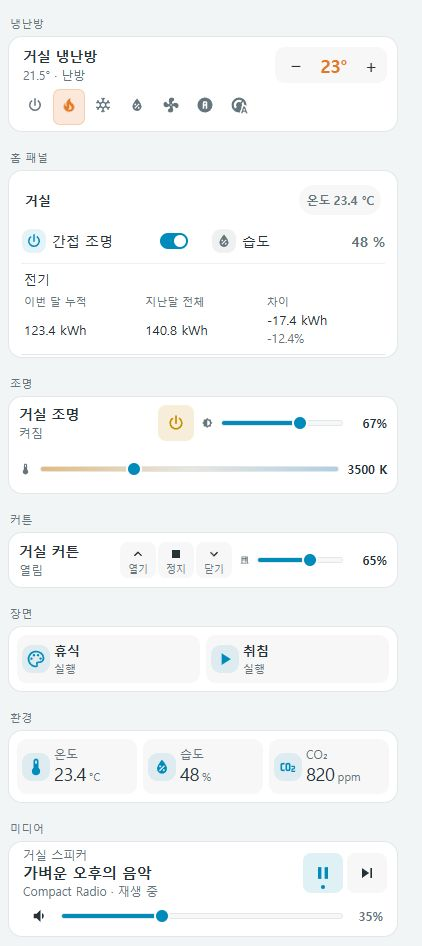
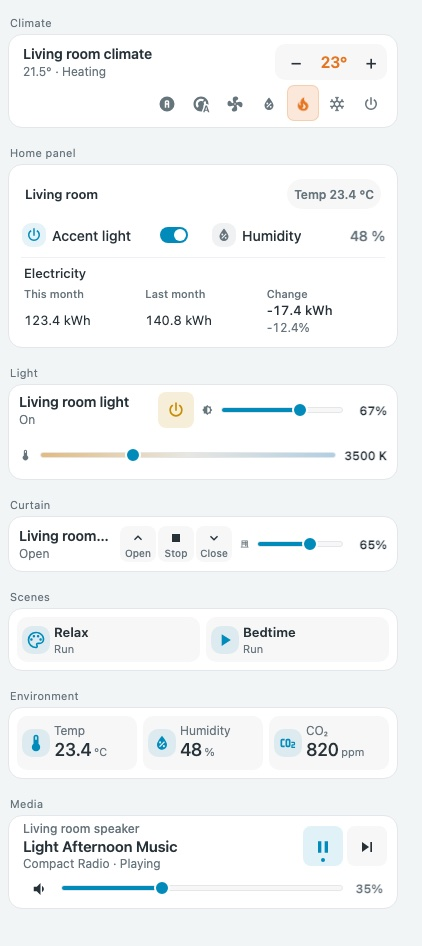
docs: use English images by default and keep Korean as -ko
README and the English guide sections showed Korean screenshots. Images
without a suffix are now English, *-ko.jpg are the Korean originals, and
the preview pages render English unless lang=ko is passed.

diff --git a/examples/preview.html b/examples/preview.html
@@ -8,13 +8,14 @@ body.capture{margin:8px}body.capture>h1,body.capture>p,body.capture>nav{display:
 </style>
 <h1>Compact Cards</h1><p>모의 상태를 사용한 브라우저 미리보기 · 실제 기기에 명령을 보내지 않습니다.</p>
 <nav><select aria-label="미리보기 너비"><option value="320">320px</option><option value="390" selected>390px</option><option value="760">760px</option></select><button id="theme">테마 변경</button><button id="offline">연결 상태 변경</button></nav><main></main><p id="feedback" role="status"></p>
-<script src="preview-icons.js"></script><script>
+<script src="preview-icons.js"></script><script src="preview-locale.js"></script><script>
 // Minimal local HA visual primitives; actual HA provides its own components and icons.
 customElements.define('ha-card',class extends HTMLElement{constructor(){super();this.attachShadow({mode:'open'}).innerHTML='<style>:host{display:block;background:var(--card-background-color);border:1px solid var(--divider-color);border-radius:12px;color:var(--primary-text-color)}</style><slot></slot>';}});
 customElements.define('ha-icon',class extends HTMLElement{connectedCallback(){this.attachShadow({mode:'open'});this.update();new MutationObserver(()=>this.update()).observe(this,{attributes:true,attributeFilter:['icon']});}update(){const paths={'power':'M12 2v10 M5 5a9 9 0 1 0 14 0','chevron-up':'m6 15 6-6 6 6','chevron-down':'m6 9 6 6 6-6','stop':'M6 6h12v12H6z','play':'m8 5 11 7-11 7z','pause':'M8 5v14M16 5v14','skip-next':'m5 5 10 7-10 7zM18 5v14','thermometer':'M9 14V5a3 3 0 0 1 6 0v9a5 5 0 1 1-6 0','snowflake':'M12 2v20M3 7l18 10M3 17 21 7','fire':'M12 2C9 10 4 9 5 15a7 7 0 0 0 14-1c0-4-4-7-4-7s1 5-3 5z','water-percent':'M12 3C8 9 5 12 5 16a7 7 0 0 0 14 0c0-4-3-7-7-13z','fan':'M12 12c-9-1-7-12-1-9 3 2 2 5 1 9 5-8 13-1 8 3-3 2-6 0-8-3 3 9-8 12-9 6 0-4 5-5 9-6','brightness-6':'M12 3v2m0 14v2M3 12h2m14 0h2M6 6l1 1m10 10 1 1M6 18l1-1M17 7l1-1 M17 12a5 5 0 1 0-10 0 5 5 0 0 0 10 0'};const key=(this.getAttribute('icon')||'').replace('mdi:','');if(window.compactPreviewIcons?.[key]){this.shadowRoot.innerHTML=`<style>:host{display:inline-flex;align-items:center;justify-content:center}</style><svg viewBox="0 0 24 24" width="100%" height="100%" fill="currentColor"><path d="${window.compactPreviewIcons[key]}"/></svg>`;return;}this.shadowRoot.innerHTML=`<style>:host{display:inline-flex;align-items:center;justify-content:center}</style><svg viewBox="0 0 24 24" width="100%" height="100%" fill="none" stroke="currentColor" stroke-width="1.8" stroke-linecap="round" stroke-linejoin="round"><path d="${paths[key]||'M5 6h14v12H5zM8 9h8M8 12h8M8 15h5'}"/></svg>`;}});
 </script><script src="../compact-cards.js"></script><script>
 const state=(entity_id,state,attributes)=>({entity_id,state,attributes});
-const initial={
+const {translate}=compactPreviewLocale;
+const initial=translate({
 'climate.room':state('climate.room','heat',{friendly_name:'거실 냉난방',temperature:23,current_temperature:21.5,min_temp:16,max_temp:30,target_temp_step:.5,supported_features:1,hvac_modes:['off','heat','cool','dry','fan_only','auto','heat_cool'],hvac_action:'heating'}),
 'light.room':state('light.room','on',{friendly_name:'거실 조명',brightness:170,supported_color_modes:['color_temp'],min_color_temp_kelvin:2200,max_color_temp_kelvin:6500,color_temp_kelvin:3500}),
 'cover.room':state('cover.room','open',{friendly_name:'거실 커튼',supported_features:15,current_position:65}),
@@ -24,14 +25,17 @@ const initial={
 'sensor.co2':state('sensor.co2','820',{friendly_name:'CO₂',device_class:'carbon_dioxide',unit_of_measurement:'ppm'}),
 'sensor.now':state('sensor.now','123.4',{unit_of_measurement:'kWh'}),'sensor.previous':state('sensor.previous','140.8',{unit_of_measurement:'kWh'}),
 'scene.relax':state('scene.relax','unknown',{friendly_name:'휴식'}),'script.night':state('script.night','off',{friendly_name:'취침'}),
-'media_player.room':state('media_player.room','playing',{friendly_name:'거실 스피커',media_title:'가벼운 오후의 음악',media_artist:'Compact Radio',supported_features:1|2|4|8|16|32|128|512|16384,volume_level:.35})};
+'media_player.room':state('media_player.room','playing',{friendly_name:'거실 스피커',media_title:'가벼운 오후의 음악',media_artist:'Compact Radio',supported_features:1|2|4|8|16|32|128|512|16384,volume_level:.35})});
 const scenario=new URLSearchParams(location.search).get('scenario');
+const requestedWidth=new URLSearchParams(location.search).get('width');
+if(['320','390','760'].includes(requestedWidth)){document.querySelector('main').style.width=requestedWidth+'px';document.querySelector('select').value=requestedWidth;}
 if(scenario==='long'){initial['sensor.co2'].state='12345.6789';initial['sensor.temperature'].state='23.456';}
 if(scenario==='muted'||scenario==='mute-only')initial['media_player.room'].attributes.is_volume_muted=true;
 if(scenario==='mute-only')initial['media_player.room'].attributes.supported_features=1|8|32|16384;
 const motionTimers=new Map();
-const hass={states:structuredClone(initial),formatEntityState:s=>`${({heat:'난방',on:'켜짐',off:'꺼짐',open:'열림',closed:'닫힘',playing:'재생 중',paused:'일시정지'}[s.state]||s.state)} ${s.attributes.unit_of_measurement||''}`.trim(),callService:async(domain,service,data)=>{document.querySelector('#feedback').textContent='처리 중…';await new Promise(r=>setTimeout(r,450));const id=data.entity_id,s=hass.states[id];if(s){if(service==='toggle')s.state=s.state==='on'?'off':'on';if(service==='set_temperature')s.attributes.temperature=data.temperature;if(service==='set_hvac_mode'){s.state=data.hvac_mode;s.attributes.hvac_action=({off:'off',fan_only:'fan',heat:'heating',cool:'cooling',dry:'drying'}[data.hvac_mode]||'idle');}if(service==='turn_on'){s.state='on';if(data.brightness_pct!=null)s.attributes.brightness=data.brightness_pct*255/100;if(data.color_temp_kelvin)s.attributes.color_temp_kelvin=data.color_temp_kelvin;}if(service==='turn_off')s.state='off';if(service==='set_cover_position')s.attributes.current_position=data.position;if(['open_cover','close_cover'].includes(service)){clearTimeout(motionTimers.get(id));s.state=service==='open_cover'?'opening':'closing';motionTimers.set(id,setTimeout(()=>{s.state=service==='open_cover'?'open':'closed';s.attributes.current_position=service==='open_cover'?100:0;refresh();},900));}if(service==='stop_cover'){clearTimeout(motionTimers.get(id));s.state=s.attributes.current_position===0?'closed':'open';}if(service==='media_pause')s.state='paused';if(service==='media_play')s.state='playing';if(service==='volume_set')s.attributes.volume_level=data.volume_level;if(service==='volume_mute')s.attributes.is_volume_muted=data.is_volume_muted;}document.querySelector('#feedback').textContent=`${domain}.${service} 완료`;refresh();}};
-const configs=[['compact-climate-row','냉난방',{entity:'climate.room'}],['compact-home-panel','홈 패널',{items:[{type:'heading',name:'거실',badges:[{entity:'sensor.temperature',name:'온도'}]},{entity:'switch.room',tap_action:{action:'toggle'}},{entity:'sensor.humidity',tap_action:{action:'more-info'}},{type:'comparison',rows:[{name:'전기',entity:'sensor.now',previous:'sensor.previous'}]}]}],['compact-light-row','조명',{entity:'light.room'}],['compact-cover-row','커튼',{entity:'cover.room'}],['compact-scene-panel','장면',{items:[{entity:'scene.relax',name:'휴식'},{entity:'script.night',name:'취침'}]}],['compact-environment-panel','환경',{items:[{entity:'sensor.temperature',name:'온도'},{entity:'sensor.humidity',name:'습도'},{entity:'sensor.co2',name:'CO₂'}]}],['compact-media-row','미디어',{entity:'media_player.room'}]];
+const hass={states:structuredClone(initial),formatEntityState:s=>`${translate({heat:'난방',on:'켜짐',off:'꺼짐',open:'열림',closed:'닫힘',playing:'재생 중',paused:'일시정지'}[s.state]||s.state)} ${s.attributes.unit_of_measurement||''}`.trim(),callService:async(domain,service,data)=>{document.querySelector('#feedback').textContent='처리 중…';await new Promise(r=>setTimeout(r,450));const id=data.entity_id,s=hass.states[id];if(s){if(service==='toggle')s.state=s.state==='on'?'off':'on';if(service==='set_temperature')s.attributes.temperature=data.temperature;if(service==='set_hvac_mode'){s.state=data.hvac_mode;s.attributes.hvac_action=({off:'off',fan_only:'fan',heat:'heating',cool:'cooling',dry:'drying'}[data.hvac_mode]||'idle');}if(service==='turn_on'){s.state='on';if(data.brightness_pct!=null)s.attributes.brightness=data.brightness_pct*255/100;if(data.color_temp_kelvin)s.attributes.color_temp_kelvin=data.color_temp_kelvin;}if(service==='turn_off')s.state='off';if(service==='set_cover_position')s.attributes.current_position=data.position;if(['open_cover','close_cover'].includes(service)){clearTimeout(motionTimers.get(id));s.state=service==='open_cover'?'opening':'closing';motionTimers.set(id,setTimeout(()=>{s.state=service==='open_cover'?'open':'closed';s.attributes.current_position=service==='open_cover'?100:0;refresh();},900));}if(service==='stop_cover'){clearTimeout(motionTimers.get(id));s.state=s.attributes.current_position===0?'closed':'open';}if(service==='media_pause')s.state='paused';if(service==='media_play')s.state='playing';if(service==='volume_set')s.attributes.volume_level=data.volume_level;if(service==='volume_mute')s.attributes.is_volume_muted=data.is_volume_muted;}document.querySelector('#feedback').textContent=`${domain}.${service} 완료`;refresh();}};
+const configs=translate([['compact-climate-row','냉난방',{entity:'climate.room'}],['compact-home-panel','홈 패널',{items:[{type:'heading',name:'거실',badges:[{entity:'sensor.temperature',name:'온도'}]},{entity:'switch.room',tap_action:{action:'toggle'}},{entity:'sensor.humidity',tap_action:{action:'more-info'}},{type:'comparison',rows:[{name:'전기',entity:'sensor.now',previous:'sensor.previous'}]}]}],['compact-light-row','조명',{entity:'light.room'}],['compact-cover-row','커튼',{entity:'cover.room'}],['compact-scene-panel','장면',{items:[{entity:'scene.relax',name:'휴식'},{entity:'script.night',name:'취침'}]}],['compact-environment-panel','환경',{items:[{entity:'sensor.temperature',name:'온도'},{entity:'sensor.humidity',name:'습도'},{entity:'sensor.co2',name:'CO₂'}]}],['compact-media-row','미디어',{entity:'media_player.room'}]]);
+compactPreviewLocale.start();
 if(new URLSearchParams(location.search).get('capture')==='true')document.body.classList.add('capture');
 const selected=new URLSearchParams(location.search).get('card');
 for(const [type,label,config]of configs){if(selected&&type!==selected)continue;if(!customElements.get(type))continue;const section=document.createElement('section'),title=document.createElement('small'),card=document.createElement(type);title.textContent=label;try{card.setConfig(config);card.hass=hass;section.append(title,card);document.querySelector('main').append(section);

diff --git a/examples/showcase.html b/examples/showcase.html
@@ -11,6 +11,9 @@
 <script>
 const showcaseParams=new URLSearchParams(location.search);
 document.documentElement.dataset.theme=showcaseParams.get('theme')==='dark'?'dark':'light';
+// English by default; ?lang=ko keeps the Korean sample text. Korean sample text is swapped for English; card-owned labels are swapped in the DOM after each render.
+const english=showcaseParams.get('lang')!=='ko';
+if(english)document.documentElement.lang='en';
 </script>
 </head>
 <body>
@@ -75,11 +78,35 @@ const rooms=[
   {type:'custom:compact-home-panel',columns:2,items:[{type:'heading',name:'조명·전원'},{entity:'light.kitchen',name:'주방'},{entity:'switch.entryway',name:'현관'},{entity:'switch.desk',name:'책상'},{entity:'switch.balcony',name:'베란다'},{type:'heading',name:'전기 사용량'},{type:'comparison',rows:[{name:'전기',entity:'sensor.electricity_this_month',previous:'sensor.electricity_last_month'}]}]},
  ]},
 ];
+const dictionary={'우리집':'My Home','우리집 · 거실과 침실, 자주 쓰는 조작을 한곳에':'My Home · Living room and bedroom, everyday controls in one place','테마 변경':'Toggle theme','모의 Home Assistant 대시보드':'Mock Home Assistant dashboard','실제 Compact Cards로 구성한 모의 대시보드입니다. 표시된 값과 동작은 예시이며 실제 기기에 연결하지 않습니다.':'A mock dashboard built with the real Compact Cards. Values and actions are examples and no real device is connected.',
+'냉난방':'Climate','거실 조명':'Living room light','침실 조명':'Bedroom light','주방 조명':'Kitchen light','현관 조명':'Entryway light','책상 조명':'Desk light','베란다 조명':'Balcony light','침실 커튼':'Bedroom curtain','거실 온도':'Living room temperature','거실 습도':'Living room humidity','거실 CO₂':'Living room CO₂','침실 온도':'Bedroom temperature','침실 습도':'Bedroom humidity','이번 달 전기':'Electricity this month','지난달 전기':'Electricity last month','편안한 저녁':'Cozy evening','독서':'Reading','외출':'Away','취침':'Bedtime','거실 스피커':'Living room speaker','조용한 저녁의 피아노':'Quiet Evening Piano','창가에 흐르는 재즈':'Jazz by the Window',
+'거실':'Living room','침실':'Bedroom','집 전체':'Whole home','온도':'Temp','습도':'Humidity','주방':'Kitchen','현관':'Entryway','책상':'Desk','베란다':'Balcony','조명·전원':'Lights & power','전기 사용량':'Electricity usage','전기':'Electricity',
+'실행':'Run','열기':'Open','정지':'Stop','닫기':'Close','이번 달 누적':'This month','지난달 전체':'Last month','차이':'Change','항목':'Item','재생 중':'Playing','난방':'Heating','냉방':'Cooling','송풍':'Fan','끄기':'Off','켜짐':'On','꺼짐':'Off','열림':'Open','닫힘':'Closed','일시정지':'Paused','대기':'Idle','확인 불가':'Unavailable'};
+const translate=value=>{
+ if(!english)return value;
+ if(typeof value==='string')return dictionary[value]??value;
+ if(Array.isArray(value))return value.map(translate);
+ if(value&&typeof value==='object')return Object.fromEntries(Object.entries(value).map(([key,item])=>[key,translate(item)]));
+ return value;
+};
+const localeTerms=Object.entries(dictionary).sort((a,b)=>b[0].length-a[0].length);
+function localize(root){
+ if(!english)return;
+ const walker=document.createTreeWalker(root,NodeFilter.SHOW_TEXT);
+ for(let node=walker.nextNode();node;node=walker.nextNode()){
+  let text=node.nodeValue;for(const [ko,en] of localeTerms)text=text.split(ko).join(en);
+  if(text!==node.nodeValue)node.nodeValue=text;
+ }
+ for(const element of root.querySelectorAll('*')){
+  const label=element.dataset?.label;if(label&&dictionary[label])element.dataset.label=dictionary[label];
+  if(element.shadowRoot)localize(element.shadowRoot);
+ }
+}
 const cards=[],timers=new Map();let toastTimer;
 function announce(message){clearTimeout(toastTimer);document.querySelector('#feedback').textContent=message;toastTimer=setTimeout(()=>document.querySelector('#feedback').textContent='',2200);}
-function refresh(){for(const card of cards)card.hass={...hass};}
-const hass={states:structuredClone(initial),config:{unit_system:{temperature:'°C'}},formatEntityState:state=>{
- const labels={heat:'난방',cool:'냉방',fan_only:'송풍',on:'켜짐',off:'꺼짐',open:'열림',closed:'닫힘',opening:'여는 중',closing:'닫는 중',playing:'재생 중',paused:'일시정지',idle:'대기'};
+function refresh(){for(const card of cards)card.hass={...hass};localize(document.body);}
+const hass={states:structuredClone(translate(initial)),config:{unit_system:{temperature:'°C'}},formatEntityState:state=>{
+ const labels=english?{heat:'Heating',cool:'Cooling',fan_only:'Fan',on:'On',off:'Off',open:'Open',closed:'Closed',opening:'Opening',closing:'Closing',playing:'Playing',paused:'Paused',idle:'Idle'}:{heat:'난방',cool:'냉방',fan_only:'송풍',on:'켜짐',off:'꺼짐',open:'열림',closed:'닫힘',opening:'여는 중',closing:'닫는 중',playing:'재생 중',paused:'일시정지',idle:'대기'};
  return `${labels[state.state]||state.state}${state.attributes.unit_of_measurement?' '+state.attributes.unit_of_measurement:''}`;
 },callService:async(domain,service,data)=>{
  await new Promise(resolve=>setTimeout(resolve,350));const state=hass.states[data.entity_id];if(!state)throw new Error('모의 엔티티를 찾을 수 없습니다.');
@@ -98,12 +125,14 @@ const hass={states:structuredClone(initial),config:{unit_system:{temperature:'°
  if(service==='stop_cover'){clearTimeout(timers.get(state.entity_id));state.state=state.attributes.current_position===0?'closed':'open';}
  if(service==='media_pause')state.state='paused';
  if(service==='media_play')state.state='playing';
- if(service==='media_next_track'){state.attributes.media_title=state.attributes.media_title==='조용한 저녁의 피아노'?'창가에 흐르는 재즈':'조용한 저녁의 피아노';state.attributes.media_artist=state.attributes.media_title==='창가에 흐르는 재즈'?'Window Jazz':'Evening Piano';}
+ if(service==='media_next_track'){const [a,b]=english?['Quiet Evening Piano','Jazz by the Window']:['조용한 저녁의 피아노','창가에 흐르는 재즈'];state.attributes.media_title=state.attributes.media_title===a?b:a;state.attributes.media_artist=state.attributes.media_title===b?'Window Jazz':'Evening Piano';}
  if(service==='volume_set')state.attributes.volume_level=data.volume_level;
  if(service==='volume_mute')state.attributes.is_volume_muted=data.is_volume_muted;
  refresh();
 }};
-for(const room of rooms){const section=document.createElement('section');section.className='room';const heading=document.createElement('h2');heading.className='room-heading';const icon=document.createElement('ha-icon');icon.setAttribute('icon',room.icon);icon.setAttribute('aria-hidden','true');heading.append(icon,document.createTextNode(room.name));const group=document.createElement('div');group.className='cards';section.append(heading,group);document.querySelector('main').append(section);for(const config of room.cards){const card=document.createElement(config.type.replace('custom:',''));card.setConfig(config);card.hass=hass;group.append(card);cards.push(card);}}
+for(const room of translate(rooms)){const section=document.createElement('section');section.className='room';const heading=document.createElement('h2');heading.className='room-heading';const icon=document.createElement('ha-icon');icon.setAttribute('icon',room.icon);icon.setAttribute('aria-hidden','true');heading.append(icon,document.createTextNode(room.name));const group=document.createElement('div');group.className='cards';section.append(heading,group);document.querySelector('main').append(section);for(const config of room.cards){const card=document.createElement(config.type.replace('custom:',''));card.setConfig(config);card.hass=hass;group.append(card);cards.push(card);}}
+localize(document.body);
+if(english){setInterval(()=>localize(document.body),200);for(const [selector,key] of [['.caption','우리집 · 거실과 침실, 자주 쓰는 조작을 한곳에'],['footer','실제 Compact Cards로 구성한 모의 대시보드입니다. 표시된 값과 동작은 예시이며 실제 기기에 연결하지 않습니다.'],['#theme','테마 변경']])document.querySelector(selector).textContent=dictionary[key];document.querySelector('main').setAttribute('aria-label',dictionary['모의 Home Assistant 대시보드']);document.title='Compact Cards · My Home';}
 document.querySelector('#theme').onclick=()=>{document.documentElement.dataset.theme=document.documentElement.dataset.theme==='dark'?'light':'dark';};
 document.addEventListener('hass-more-info',event=>{const state=hass.states[event.detail.entityId];announce(`${state?.attributes.friendly_name||event.detail.entityId} · ${state?hass.formatEntityState(state):'확인 불가'} (모의 정보)`);});
 document.addEventListener('hass-notification',event=>announce(event.detail.message));

diff --git a/examples/preview-locale.js b/examples/preview-locale.js
@@ -1,0 +1,37 @@
+// Preview-only English substitution for the Korean sample text. English by default; add ?lang=ko for the Korean originals.
+// The card bundle itself is Korean-only, so card-rendered labels are swapped in the DOM after rendering.
+(()=>{
+const english=new URLSearchParams(location.search).get('lang')!=='ko';
+const dictionary={
+ '거실 냉난방':'Living room climate','거실 조명':'Living room light','거실 커튼':'Curtain','거실 스피커':'Living room speaker','간접 조명':'Accent light','실내 온도':'Room temperature','습도':'Humidity','온도':'Temp','휴식':'Relax','취침':'Bedtime','가벼운 오후의 음악':'Light Afternoon Music','전기':'Electricity','거실':'Living room','환경':'Environment','냉난방':'Climate','홈 패널':'Home panel','조명':'Light','커튼':'Curtain','장면':'Scenes','미디어':'Media',
+ '보일러':'Boiler','에어컨':'Air conditioner',
+ '모의 상태를 사용한 브라우저 미리보기 · 실제 기기에 명령을 보내지 않습니다.':'Browser preview with mocked states · No commands are sent to real devices.','미리보기 너비':'Preview width','테마 변경':'Toggle theme','연결 상태 변경':'Toggle connection',
+ '처리 중…':'Working…','설정 미리보기 반영 완료':'Config preview updated',
+ '냉난방 너비·높이 확인':'Climate width and height check','냉난방 카드의 너비·높이':'Climate card width and height','같은 실제 카드 구현을 패널과 고정 높이 미리보기 부모 안에서 비교합니다.':'Compares the same real card in a panel and in a fixed-height preview parent.','패널 너비':'Panel width','냉난방 크기 검증용 모의 화면':'Mock view for climate size checks','실제 카드 코드 · 모의 상태 · 실제 기기 제어 없음':'Real card code · Mocked states · No real device control','홈 패널 · 보일러 2모드 / 에어컨 5모드':'Home panel · Boiler 2 modes / AC 5 modes','단독 카드 · 280 × 320px 그리드 부모':'Standalone card · 280 × 320px grid parent',
+ '엔티티':'Entity','표시 설정':'Display','표시 이름':'Display name','열 수':'Columns','기본값':'Default','1열':'1 column','2열':'2 columns','3열':'3 columns','4열':'4 columns','위로':'Up','아래로':'Down','삭제':'Delete','항목 유형':'Item type','이름으로 센서 찾기':'Find sensor by name','제목':'Heading','메모':'Note','사용량 비교':'Usage comparison','페이지 이동':'Navigate','배지':'Badges','센서':'Sensor','배지 추가':'Add badge','아이콘':'Icon','터치 동작':'Tap action','이름 터치 동작':'Name tap action','기본 (상세 정보)':'Default (more info)','상세 정보':'More info','켜기/끄기 전환':'Toggle on/off','켜기/끄기':'Toggle on/off','이름 터치와 별개로 오른쪽 전용 제어를 사용할 수 있습니다. 기존 서비스 설정은 보존되며 전용 제어가 우선합니다.':'A dedicated control on the right can be used separately from the name tap. Existing service settings are preserved and the dedicated control takes priority.','실행 전 확인':'Confirm before running','확인 메시지 사용':'Use confirmation message','서비스 실행 버튼':'Service run button','이름을 누르면 엔티티 상세 정보를 엽니다.':'Tapping the name opens the entity details.','비교 항목':'Comparison row','항목 이름':'Item name','이번 달 센서':'This month sensor','지난달 센서':'Last month sensor','비교 항목 추가':'Add comparison row','항목 추가':'Add item','패널 이름':'Panel name','임계값':'Threshold','임계값 추가':'Add threshold','음량 표시':'Show volume','다음 곡 표시':'Show next track','항목':'Item',
+ '음소거':'Muted','기준값':'Value','비교 방향':'Direction','강조 수준':'Emphasis','이상':'or above','이하':'or below','주의':'Warning','위험':'Critical','실내 환경':'Room environment',
+ '실행':'Run','열기':'Open','정지':'Stop','닫기':'Close','이번 달 누적':'This month','지난달 전체':'Last month','차이':'Change','항목':'Item','재생 중':'Playing','난방':'Heating','냉방':'Cooling','송풍':'Fan','제습':'Dry','자동':'Auto','끄기':'Off','켜짐':'On','꺼짐':'Off','열림':'Open','닫힘':'Closed','일시정지':'Paused','대기':'Idle','확인 불가':'Unavailable'
+};
+const terms=Object.entries(dictionary).sort((a,b)=>b[0].length-a[0].length);
+const translate=value=>{
+ if(!english)return value;
+ if(typeof value==='string')return dictionary[value]??value;
+ if(Array.isArray(value))return value.map(translate);
+ if(value&&typeof value==='object')return Object.fromEntries(Object.entries(value).map(([key,item])=>[key,translate(item)]));
+ return value;
+};
+function localize(root=document.body){
+ const walker=document.createTreeWalker(root,NodeFilter.SHOW_TEXT);
+ for(let node=walker.nextNode();node;node=walker.nextNode()){
+  let text=node.nodeValue;for(const [ko,en] of terms)text=text.split(ko).join(en);
+  if(text!==node.nodeValue)node.nodeValue=text;
+ }
+ for(const element of root.querySelectorAll('*')){
+  for(const name of ['data-label','aria-label','placeholder','title']){const value=element.getAttribute(name);if(value){let text=value;for(const [ko,en] of terms)text=text.split(ko).join(en);if(text!==value)element.setAttribute(name,text);}}
+  if(element.shadowRoot)localize(element.shadowRoot);
+ }
+}
+const start=()=>{if(!english)return;document.documentElement.lang='en';document.title=translate(document.title);localize();setInterval(localize,200);};
+window.compactPreviewLocale={english,translate,localize,start,dictionary};
+if(english&&new URLSearchParams(location.search).get('debug')==='ko')setTimeout(()=>{const found=new Set();const scan=root=>{const w=document.createTreeWalker(root,NodeFilter.SHOW_TEXT);for(let n=w.nextNode();n;n=w.nextNode())if(/[가-힣]/.test(n.nodeValue)&&!['SCRIPT','STYLE','TITLE'].includes(n.parentNode.nodeName))found.add(n.nodeValue.trim());for(const e of root.querySelectorAll('*'))if(e.shadowRoot)scan(e.shadowRoot);};scan(document.body);document.title='KO:'+[...found].join('|');},2500);
+})();

diff --git a/examples/climate-fit.html b/examples/climate-fit.html
@@ -20,6 +20,7 @@ document.documentElement.dataset.theme=fitParams.get('theme')==='dark'?'dark':'l
 <footer>실제 카드 코드 · 모의 상태 · 실제 기기 제어 없음</footer>
 <p id="feedback" role="status" aria-live="polite"></p>
 <script src="preview-icons.js"></script>
+<script src="preview-locale.js"></script>
 <script>
 // Only HA's visual primitives are substituted; card content/layout comes from compact-cards.js.
 customElements.define('ha-card',class extends HTMLElement{constructor(){super();this.attachShadow({mode:'open'}).innerHTML='<style>:host{display:block;background:var(--card-background-color);border:1px solid var(--divider-color);border-radius:var(--ha-card-border-radius,14px);color:var(--primary-text-color)}</style><slot></slot>';}});
@@ -35,12 +36,13 @@ document.documentElement.style.setProperty('--panel-width',panelWidth+'px');docu
 </script>
 <script src="../compact-cards.js"></script>
 <script>
-const fitStates={
+const {translate:fitTranslate}=compactPreviewLocale;
+const fitStates=fitTranslate({
  'climate.demo_boiler':{entity_id:'climate.demo_boiler',state:'heat',attributes:{friendly_name:'보일러',temperature:25,current_temperature:25,min_temp:16,max_temp:30,target_temp_step:1,supported_features:1,hvac_modes:['off','heat'],hvac_action:'idle'}},
  'climate.demo_ac':{entity_id:'climate.demo_ac',state:'cool',attributes:{friendly_name:'에어컨',temperature:24,current_temperature:27.5,min_temp:16,max_temp:30,target_temp_step:1,supported_features:1,hvac_modes:['off','cool','fan_only','dry','auto'],hvac_action:'cooling'}},
-};
+});
 const fitCards=[];
-const fitHass={states:fitStates,config:{unit_system:{temperature:'°C'}},formatEntityState:state=>({off:'꺼짐',heat:'난방',cool:'냉방',fan_only:'송풍',dry:'제습',auto:'자동'}[state.state]||state.state),callService:async(domain,service,data)=>{
+const fitHass={states:fitStates,config:{unit_system:{temperature:'°C'}},formatEntityState:state=>fitTranslate({off:'꺼짐',heat:'난방',cool:'냉방',fan_only:'송풍',dry:'제습',auto:'자동'}[state.state]||state.state),callService:async(domain,service,data)=>{
  if(domain!=='climate')throw new Error('모의 냉난방 서비스만 지원합니다.');
  await new Promise(resolve=>setTimeout(resolve,250));const state=fitStates[data.entity_id];if(!state)throw new Error('모의 엔티티를 찾을 수 없습니다.');
  if(service==='set_temperature')state.attributes.temperature=data.temperature;
@@ -49,9 +51,10 @@ const fitHass={states:fitStates,config:{unit_system:{temperature:'°C'}},formatE
 }};
 function addFitTarget(kind,title,config){const section=document.createElement('section');section.className=`fixture ${kind}-fixture`;section.dataset.target=kind;const heading=document.createElement('h2');heading.className='fixture-title';heading.textContent=title;section.append(heading);const card=document.createElement(config.type.replace('custom:',''));card.id=kind==='panel'?'panel-card':'picker-card';card.setConfig(config);card.hass=fitHass;if(kind==='picker'){const slot=document.createElement('div');slot.className='picker-slot';slot.id='picker-slot';slot.append(card);section.append(slot);}else section.append(card);document.querySelector('main').append(section);fitCards.push(card);}
 const target=fitParams.get('target');
-if(!target||target==='panel')addFitTarget('panel','홈 패널 · 보일러 2모드 / 에어컨 5모드',{type:'custom:compact-home-panel',items:[{type:'climate',entity:'climate.demo_boiler',name:'보일러'},{type:'climate',entity:'climate.demo_ac',name:'에어컨'}]});
-if(!target||target==='picker')addFitTarget('picker','단독 카드 · 280 × 320px 그리드 부모',{type:'custom:compact-climate-row',entity:'climate.demo_ac',name:'에어컨'});
+if(!target||target==='panel')addFitTarget('panel',fitTranslate('홈 패널 · 보일러 2모드 / 에어컨 5모드'),{type:'custom:compact-home-panel',items:[{type:'climate',entity:'climate.demo_boiler',name:fitTranslate('보일러')},{type:'climate',entity:'climate.demo_ac',name:fitTranslate('에어컨')}]});
+if(!target||target==='picker')addFitTarget('picker',fitTranslate('단독 카드 · 280 × 320px 그리드 부모'),{type:'custom:compact-climate-row',entity:'climate.demo_ac',name:fitTranslate('에어컨')});
 if(target&&!['panel','picker'].includes(target))document.querySelector('#feedback').textContent='target은 panel 또는 picker로 지정하세요.';
+compactPreviewLocale.start();
 document.querySelector('#width').onchange=event=>document.documentElement.style.setProperty('--panel-width',event.target.value+'px');
 document.querySelector('#theme').onclick=()=>document.documentElement.dataset.theme=document.documentElement.dataset.theme==='dark'?'light':'dark';
 document.addEventListener('hass-more-info',event=>{const state=fitStates[event.detail.entityId];document.querySelector('#feedback').textContent=`${state.attributes.friendly_name} · ${fitHass.formatEntityState(state)} · 설정 ${state.attributes.temperature}°C (모의 정보)`;});

diff --git a/docs/ux-refinements.md b/docs/ux-refinements.md
@@ -4,7 +4,7 @@
 
 ## 냉난방: 아이콘 중심 구성 유지
 
-![냉난방](../images/compact-climate-row.jpg)
+![냉난방](../images/compact-climate-row-ko.jpg)
 
 모드 7개에 모두 글자를 붙이면 작은 카드에서 시각적 잡음이 늘어납니다. 현재 모드는 이름 아래 상태 텍스트와 선택 강조로 이미 표시되므로 기존 아이콘 구성을 유지했습니다. 각 버튼의 툴팁과 접근성 이름도 유지합니다. 냉난방은 이번 변경으로 버튼 수·행 수·카드 높이가 증가하지 않습니다.
 
@@ -15,9 +15,9 @@
 - **홈 패널:** 비교 숫자 옆에 `이번 달 누적 / 지난달 전체`를 표시합니다. 반복 설명 행을 없애 더 작게 구성합니다. 두 기간의 차이를 같은 기간 대비 절감으로 해석하지 않아야 합니다.
 - **환경:** 숫자는 중간에서 나누지 않고 단위를 더 작게 표시합니다. 지역화된 숫자 구분 문자를 보존하며 자동 배치는 실제 값의 너비에 맞춰 열 수를 조절합니다. 강제로 지정한 열 수는 유지하므로 긴 값에는 `columns: auto`를 권장합니다.
 
-![조명 색온도와 직접 제어](../images/compact-light-row.jpg)
+![조명 색온도와 직접 제어](../images/compact-light-row-ko.jpg)
 
-![커튼의 작은 조작 레이블](../images/compact-cover-row.jpg)
+![커튼의 작은 조작 레이블](../images/compact-cover-row-ko.jpg)
 
 ## 조작 흐름 유지
 
@@ -25,15 +25,15 @@
 - **장면:** 여러 항목을 연속 실행해도 항목별 전달 성공·실패를 잠시 유지합니다. 성공은 요청 전달을 뜻하며 실제 장치 동작 완료를 의미하지 않습니다.
 - **슬라이더:** 요청 중 포커스를 유지하고 중복 입력만 막습니다. Tab으로 다른 조작부로 이동할 수 있으며 요청이 끝나도 사용자가 이동한 포커스를 되돌리지 않습니다. 연결 불가 상태는 실제 비활성화를 적용합니다.
 
-![음소거 상태와 직접 해제](../images/compact-media-muted.jpg)
+![음소거 상태와 직접 해제](../images/compact-media-muted-ko.jpg)
 
-![320px 긴 숫자 배치](../images/compact-environment-long.jpg)
+![320px 긴 숫자 배치](../images/compact-environment-long-ko.jpg)
 
 ## 설정 과정의 불필요한 동작 줄이기
 
 항목을 재정렬해도 펼친 중첩 설정과 키보드 포커스가 해당 항목을 따라갑니다. 조명·스위치·select에는 적용되지 않는 실행 버튼 설정을 숨기고 기존 YAML 값은 보존합니다. 임계값은 `31°C 이상 · 주의`처럼 읽히는 요약으로 표시합니다. 선택적인 이름·아이콘은 `표시 설정` 안에 두고 임계값 입력은 너비에 맞춰 나란히 배치합니다.
 
-![개선한 시각 편집기](../images/visual-editor.jpg)
+![개선한 시각 편집기](../images/visual-editor-ko.jpg)
 
 ## 검증 범위
 

diff --git a/docs/compact-climate-row.md b/docs/compact-climate-row.md
@@ -2,7 +2,7 @@
 
 [UI에서 구성하기](visual-editor.md) · 아래 YAML 예제도 동일하게 사용할 수 있습니다.
 
-![냉난방 카드 대표 화면](../images/compact-climate-row.jpg)
+![냉난방 카드 대표 화면](../images/compact-climate-row-ko.jpg)
 
 운전 모드와 설정 온도를 바로 조작하는 냉난방 카드입니다. 이름 아래에 현재 상태와 현재 온도를 표시하고, 지원 모드만 버튼으로 제공합니다. 이미지는 모의 상태를 사용하는 로컬 미리보기입니다. 기기의 지원 모드·속성과 카드 너비에 따라 실제 화면은 달라집니다.
 
@@ -50,7 +50,7 @@ name: 거실 냉난방
 
 ## 좁은 카드와 터치 환경
 
-![390px 패널에서 한 줄로 배치한 보일러와 에어컨](../images/compact-climate-inline.jpg)
+![390px 패널에서 한 줄로 배치한 보일러와 에어컨](../images/compact-climate-inline-ko.jpg)
 
 위 예시는 실제 카드 코드와 모의 상태를 사용하는 390px 홈 패널입니다. 보일러의 두 모드와 에어컨의 다섯 모드가 각각 한 줄로 배치됩니다. 현재 온도를 보조 텍스트 앞에 표시해 좁은 이름 영역에서도 숫자를 먼저 읽을 수 있으며, 전체 상태는 툴팁과 접근성 이름으로 제공합니다.
 
@@ -67,7 +67,7 @@ name: 거실 냉난방
 <details>
 <summary>고정 높이 부모 안의 카드 미리보기</summary>
 
-![320px 높이 부모 안에서 내용 높이만 사용하는 단독 카드](../images/compact-climate-picker.jpg)
+![320px 높이 부모 안에서 내용 높이만 사용하는 단독 카드](../images/compact-climate-picker-ko.jpg)
 
 점선은 280 × 320px 모의 미리보기 부모이며, 내부 카드의 CSS는 실제 구현 그대로입니다. 카드가 부모 높이를 채우지 않고 내용 높이만 사용합니다. `examples/climate-fit.html`에서 재현할 수 있으며 실제 HA 연결 화면은 아닙니다.
 
@@ -95,6 +95,12 @@ items:
 - 명령 실패: Home Assistant 개발자 도구에서 같은 기기의 냉난방 서비스를 실행할 수 있는지 확인합니다.
 
 ## English
+
+![Climate card](../images/compact-climate-row.jpg)
+
+![Boiler and air conditioner on one line in a 390px panel](../images/compact-climate-inline.jpg)
+
+![Standalone card using only its content height in a 320px-tall parent](../images/compact-climate-picker.jpg)
 
 Use `custom:compact-climate-row` with a required `climate.*` `entity` and optional `name`. Tap the name to open more-info; mode buttons request supported HVAC modes, and −/+ follows the device step and limits. A single target-temperature feature and a numeric temperature are required for temperature controls. Range-only thermostats need more-info for range adjustment.
 

diff --git a/docs/compact-media-row.md b/docs/compact-media-row.md
@@ -2,7 +2,7 @@
 
 [UI에서 구성하기](visual-editor.md) · 아래 YAML 예제도 동일하게 사용할 수 있습니다.
 
-![미디어 대표 화면](../images/compact-media-row.jpg)
+![미디어 대표 화면](../images/compact-media-row-ko.jpg)
 
 모의 상태로 렌더링한 대표 이미지입니다. 곡명·아티스트와 재생·다음 곡·음량을 표시하며, 큰 앨범 아트 없이 자주 쓰는 조작에 공간을 집중합니다.
 
@@ -37,7 +37,7 @@ show_next: true
 
 음량 드래그와 키보드 조절 중에는 외부 상태 갱신이 편집 값을 덮어쓰지 않습니다. 전송 후 요청 값은 최대 3초 동안 유지되어 기기 보고 지연에 따른 튀는 현상을 줄입니다. 실패하면 알림과 실제 상태로 돌아옵니다. 음량·음소거와 재생 조작은 각각 중복 요청을 막습니다. 음량 요청을 기다리는 중에도 일시정지·다음 곡을 조작할 수 있습니다. 음소거 중에는 상태 문구와 아이콘으로 알리며 음소거 제어를 지원하지 않아도 상태를 표시합니다. `show_volume: false`는 음량 행 전체를 숨기지만 상태 문구의 음소거 표시는 유지합니다.
 
-![음소거 상태 예시](../images/compact-media-muted.jpg)
+![음소거 상태 예시](../images/compact-media-muted-ko.jpg)
 
 ## 더 작은 구성
 
@@ -65,5 +65,9 @@ items:
 `show_volume`, `show_next`도 동일하게 사용할 수 있습니다. 전체 너비 행으로 배치하고 외곽 테두리와 여백을 줄입니다.
 
 ## English
+
+![Media row](../images/compact-media-row.jpg)
+
+![Muted playback state](../images/compact-media-muted.jpg)
 
 Use a media_player entity and optional name, show_volume and show_next (both default true). Capability-aware play/pause/power, next, and volume controls use no album-art space. Missing volume disables the slider. Drafts survive state updates; volume commits once on release and waits briefly for acknowledgment. Audio and transport requests suppress duplicates independently, so pending volume changes do not block Pause. Mute-only devices use a transport-row button without an empty volume row; show_volume false hides it too. The volume icon indicates mute and offers one-tap mute/unmute when supported and its state is known; muted status remains visible even without mute control. Errors restore state with notification. Screenshot uses mocked data; live device behavior depends on HA support.

diff --git a/images/README.md b/images/README.md
@@ -15,3 +15,9 @@ These demonstrate three room groups with ten real card instances, seven card typ
 `compact-home-editor.jpg` demonstrates explicit name-tap configuration in the home-panel editor. It was captured from source `d6e19a8` at a 422 × 1104 viewport using `/examples/preview.html?card=compact-home-panel&editor=true&capture=true`, with the first heading collapsed and the second item expanded. The shown switch and sensor use mocked states; keyboard Enter toggling and UI switching to more-info were also checked in Chromium.
 
 `compact-climate-inline.jpg` (422 × 180) and `compact-climate-picker.jpg` (320 × 390) were captured from source `a889174` using `/examples/climate-fit.html?target=panel&theme=dark&capture=true` and `target=picker`, respectively. The former shows a 390px home panel; the latter exposes the fixed 280 × 320 parent boundary while the actual card keeps its content height. Only external fixture layout and local HA primitives are mocked; card CSS comes from the bundle.
+
+## Languages
+
+Images without a suffix are English and are used by `README.md` and the English sections of the guides. `*-ko.jpg` are the Korean versions used by `README.ko.md` and the Korean sections, with the same names, viewports and mocked states. The preview pages (`preview.html`, `climate-fit.html`, `showcase.html`) render English by default; add `lang=ko` to the URL for the Korean captures.
+
+The cards' own labels are Korean-only in the bundle, so English captures swap the Korean sample text and card-rendered labels in the page's DOM through `examples/preview-locale.js` (preview only; the bundle is unchanged). Everything above that describes the captures (`showcase-*.jpg`, `compact-*.jpg`, `overview.jpg`, `visual-editor.jpg`) applies to both languages. `compact-home-editor` and `visual-editor` are captured after expanding the editor sections they show (home panel: item 2 only; environment panel: item 1 with one added `31°C or above · Warning` threshold, `이상 · 주의` in Korean).

diff --git a/docs/compact-home-panel.md b/docs/compact-home-panel.md
@@ -2,7 +2,7 @@
 
 [UI에서 구성하기](visual-editor.md) · 아래 YAML 예제도 동일하게 사용할 수 있습니다.
 
-![홈 패널 대표 화면](../images/compact-home-panel.jpg)
+![홈 패널 대표 화면](../images/compact-home-panel-ko.jpg)
 
 조명·스위치·센서·냉난방·사용량 비교·실행 버튼을 한 패널에 묶습니다. 일반 항목은 두 열로 묶고, 자세한 조작이 필요한 행은 전체 너비를 사용합니다. 이미지는 모의 상태를 사용하는 로컬 미리보기이며 설정과 카드 너비에 따라 실제 화면은 달라집니다.
 
@@ -105,7 +105,7 @@ items:
 <details>
 <summary>UI에서 이름 터치 동작 선택하기</summary>
 
-![홈 패널의 토글 터치 동작 편집 예시](../images/compact-home-editor.jpg)
+![홈 패널의 토글 터치 동작 편집 예시](../images/compact-home-editor-ko.jpg)
 
 실제 카드 코드와 모의 상태를 사용하는 로컬 편집 예시입니다.
 
@@ -227,6 +227,10 @@ items:
 카드가 비어 보이면 `items` 목록과 실제 엔티티 ID를 먼저 확인하세요. `확인 불가`는 엔티티 누락·연결 불가·이름 검색 중복 등으로 발생할 수 있습니다. 서비스 실패는 Home Assistant 개발자 도구에서 같은 서비스를 실행해 확인할 수 있습니다.
 
 ## English
+
+![Compact home panel](../images/compact-home-panel.jpg)
+
+![Editing the toggle tap action of a home panel item](../images/compact-home-editor.jpg)
 
 Use `custom:compact-home-panel` with an `items` array. Optional `columns` accepts `auto` (default), `1`, or `2`; automatic entity rows collapse to one column at 380px. Full-width headings, notes, select controls, comparisons, navigation, and `type: climate/light/cover` rows keep their own layouts.
 

diff --git a/docs/compact-environment-panel.md b/docs/compact-environment-panel.md
@@ -2,7 +2,7 @@
 
 [UI에서 구성하기](visual-editor.md) · 아래 YAML 예제도 동일하게 사용할 수 있습니다.
 
-![온도·습도·CO₂를 작은 셀로 표시하는 Compact environment panel](../images/compact-environment-panel.jpg)
+![온도·습도·CO₂를 작은 셀로 표시하는 Compact environment panel](../images/compact-environment-panel-ko.jpg)
 
 온도·습도·CO₂ 등 숫자 센서를 작은 셀로 모아 표시합니다. 각 셀에서 이름·값·단위를 읽고, 누르면 해당 엔티티의 Home Assistant 상세 정보를 엽니다. 필요한 센서에만 임계값을 지정하여 색상과 `주의`·`위험` 문구를 함께 표시할 수 있습니다.
 
@@ -82,9 +82,13 @@ items:
 - 임계값은 표시 상태에만 사용됩니다. 자동화·알림 전송·기기 제어를 실행하거나 과거 데이터를 조회하지 않습니다.
 - 버튼 높이는 최소 44px이며 키보드 포커스와 동작 줄이기 설정을 지원합니다.
 
-![320px에서 긴 숫자를 유지하는 예시](../images/compact-environment-long.jpg)
+![320px에서 긴 숫자를 유지하는 예시](../images/compact-environment-long-ko.jpg)
 
 ## English
+
+![Compact environment panel with temperature, humidity and CO₂ cells](../images/compact-environment-panel.jpg)
+
+![Long numeric reading kept at 320px](../images/compact-environment-long.jpg)
 
 Use `custom:compact-environment-panel` with a nonempty `items` list of numeric `sensor.*` entities. Items accept optional `name`, `icon`, and `thresholds`. The panel accepts optional title `name` and `columns: auto` (default) or 1–4. Automatic cells favor compact readings and hide decorative icons at widths of 360px or less.
 

diff --git a/docs/visual-editor.md b/docs/visual-editor.md
@@ -2,7 +2,7 @@
 
 9종 카드 모두 Home Assistant 카드 편집 화면에서 설정할 수 있습니다. YAML 편집도 계속 사용할 수 있으며 두 편집 방식은 같은 카드 설정을 사용합니다.
 
-![환경 카드 시각 편집 예시](../images/visual-editor.jpg)
+![환경 카드 시각 편집 예시](../images/visual-editor-ko.jpg)
 
 이미지는 로컬 모의 상태에서 기본 입력 폼으로 검증한 화면입니다. 실제 HA에서는 사용 가능한 네이티브 엔티티·아이콘·대상 선택기를 사용합니다.
 
@@ -54,6 +54,8 @@ Home Assistant 기본 폼을 사용하여 엔티티·아이콘·대상 선택기
 이름 터치 동작은 `toggle`, `more-info`, `perform-action` 범위에서 제공합니다. 길게 누르기·두 번 누르기나 Home Assistant의 전체 액션 스키마를 지원한다는 뜻은 아닙니다.
 
 ## English
+
+![Visual editor for the environment card](../images/visual-editor.jpg)
 
 All nine cards expose Home Assistant visual configuration editors. Pick a Compact card, choose an entity, edit its optional name, and save with Home Assistant. Panels provide expandable items with add, remove and reorder controls; reordering keeps the moved item expanded and restores keyboard focus. Optional names/icons live in expandable display settings. Threshold summaries include the sensor unit, direction and localized severity, and their inputs adapt to available width. Home panels include headings/badges, notes, entity lookup, embedded controls, navigation, comparison rows and action buttons. Scene panels expose confirmations. Environment panels expose numeric thresholds, comparison directions and warning levels.
 

diff --git a/docs/compact-scene-panel.md b/docs/compact-scene-panel.md
@@ -2,7 +2,7 @@
 
 [UI에서 구성하기](visual-editor.md) · 아래 YAML 예제도 동일하게 사용할 수 있습니다.
 
-![장면·스크립트를 작은 버튼으로 모은 Compact scene panel](../images/compact-scene-panel.jpg)
+![장면·스크립트를 작은 버튼으로 모은 Compact scene panel](../images/compact-scene-panel-ko.jpg)
 
 휴식·외출·취침처럼 자주 사용하는 장면과 스크립트를 작은 버튼으로 모읍니다. 버튼 한 번으로 실행하고, 확인이 필요한 항목만 확인 문구를 추가할 수 있습니다. 실행 요청 중에는 해당 엔티티의 버튼이 비활성화되어 중복 명령을 막습니다.
 
@@ -67,6 +67,8 @@ items:
 이 카드는 장면·스크립트를 실행하는 바로가기입니다. 임의 서비스, 별도 `target` 또는 서비스 데이터를 구성하는 옵션은 제공하지 않습니다. 키보드 포커스와 동작 줄이기 설정을 지원합니다.
 
 ## English
+
+![Compact scene panel with scene and script buttons](../images/compact-scene-panel.jpg)
 
 Use `custom:compact-scene-panel` with a nonempty `items` list of `scene.*` or `script.*` entities. Each shortcut accepts optional `name`, `icon`, and a `confirmation` string. The panel accepts optional title `name` and `columns: auto` (default) or a fixed count from 1 to 4. Omit the title to save space.
 
